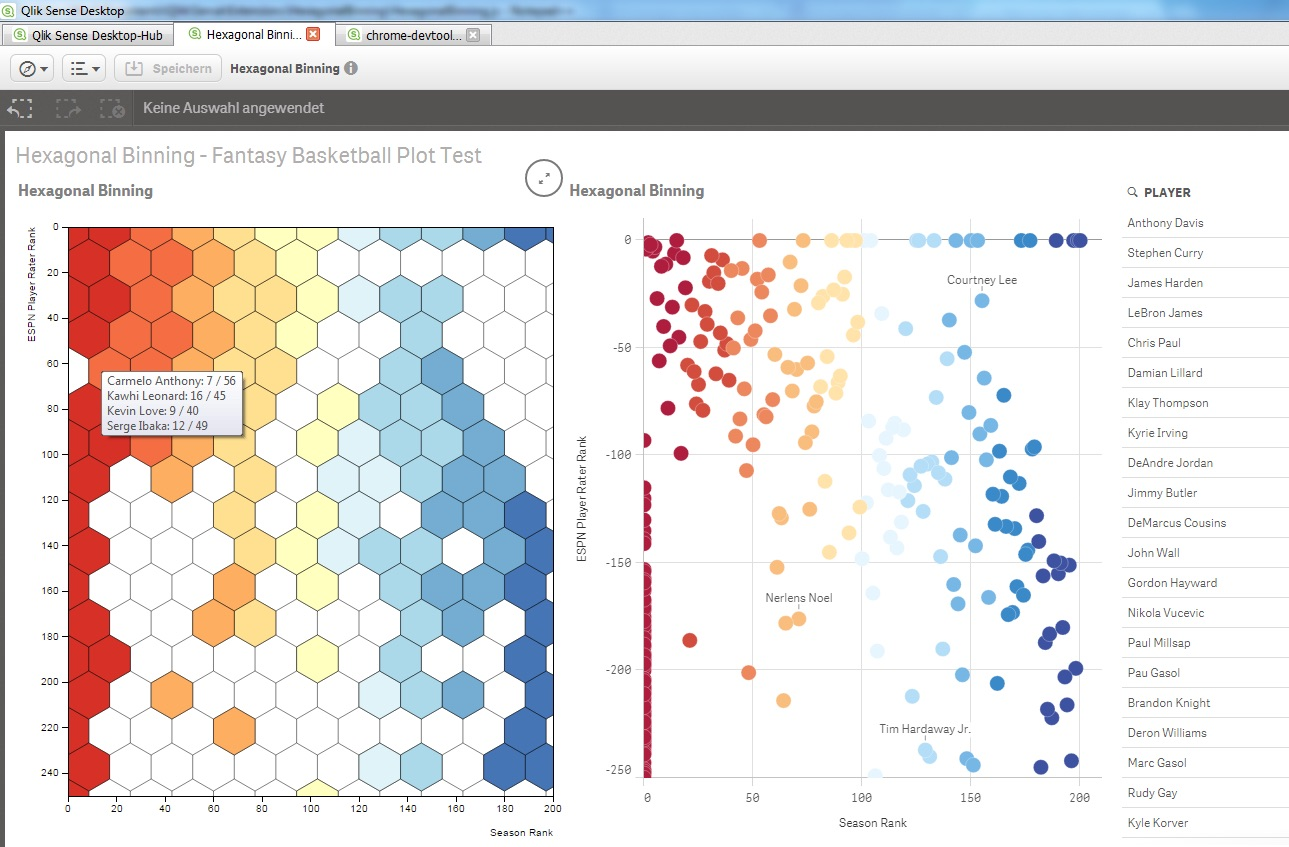
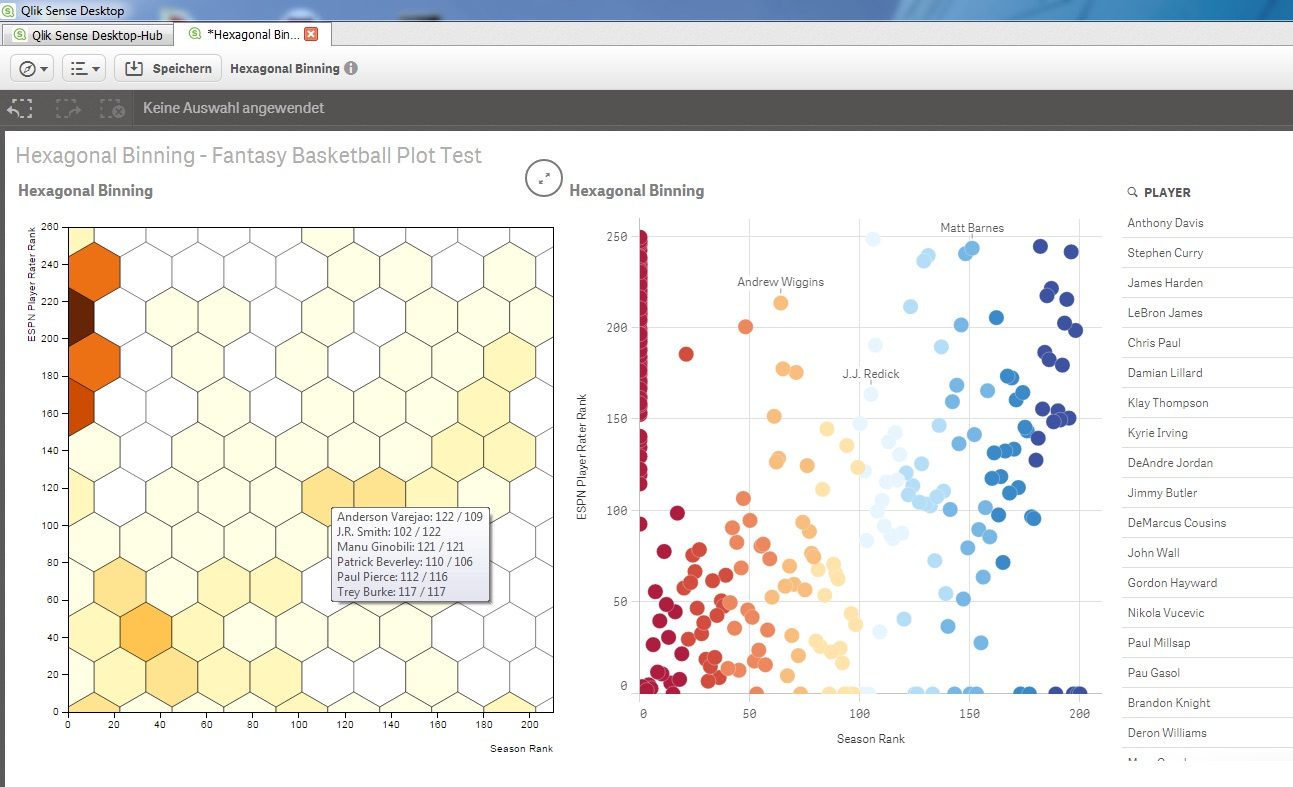
Inverted (negative) y-axis

diff --git a/HexagonalBinning/HexagonalBinning.js b/HexagonalBinning/HexagonalBinning.js
@@ -277,7 +277,7 @@ var viz = function (self, data, labels, width, height, id, selections, colorpale
 		// Set the y-axis to min and max of Metric 2	
 		var y = d3.scale.linear()
 			.domain([minYAxis, maxYAxis])
-			.range([0, height]);		
+			.range([height, 0]); // swap y-Axis	
 	} else {
 		// Set the y-axis to min and max of Metric 2	
 		var x = d3.scale.linear()
@@ -287,7 +287,7 @@ var viz = function (self, data, labels, width, height, id, selections, colorpale
 		// Set the y-axis to min and max of Metric 2	
 		var y = d3.scale.linear()
 			.domain(d3.extent(data, function(d) { return d.Metric2; }))
-			.range([0, height]);
+			.range([height, 0]); // swap y-Axis
 	}
 	// Draw the x-axis
 	var xAxis = d3.svg.axis()

diff --git a/README.md b/README.md
@@ -12,7 +12,7 @@ Future improvements:
 
 1. partly fixed: Scaling of hexagon sizes and responsive design
 2. Dealing with > 1000 points
-3. Inverted (negative) y-axis and scale requires resolution
+3. fixed: Inverted (negative) y-axis and scale requires resolution
 4. fixed: Clipping of hexagons at edge of axes
 5. fixed: Configuration on hexagon size
 6. fixed: Configuration of hexagon colour
@@ -22,3 +22,5 @@ Future improvements:
 ![Qlik Sense Extension Hexagonal Binning](hexabin1.jpg)
 
 ![Qlik Sense Extension Hexagonal Binning](hexabin2.jpg)
+
+![Qlik Sense Extension Hexagonal Binning](hexabin3.jpg)
